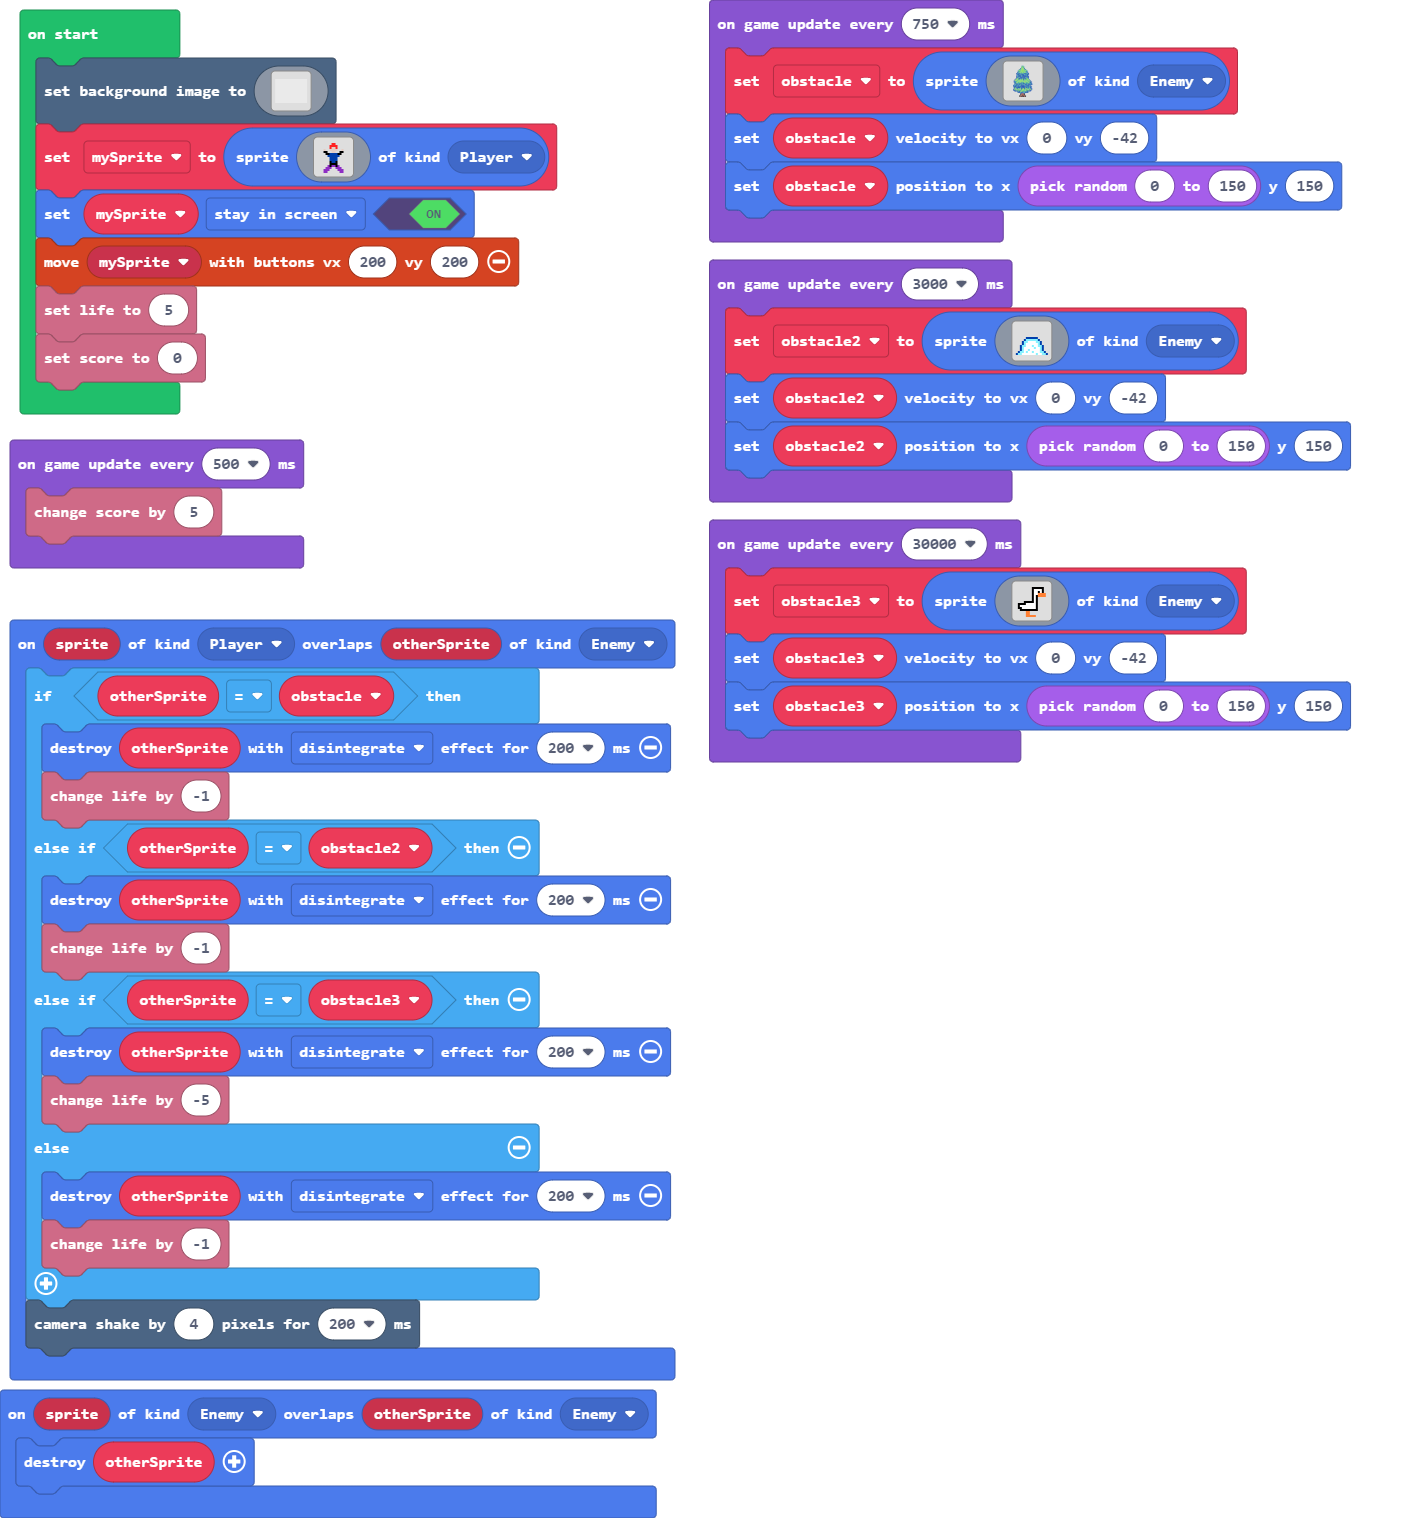
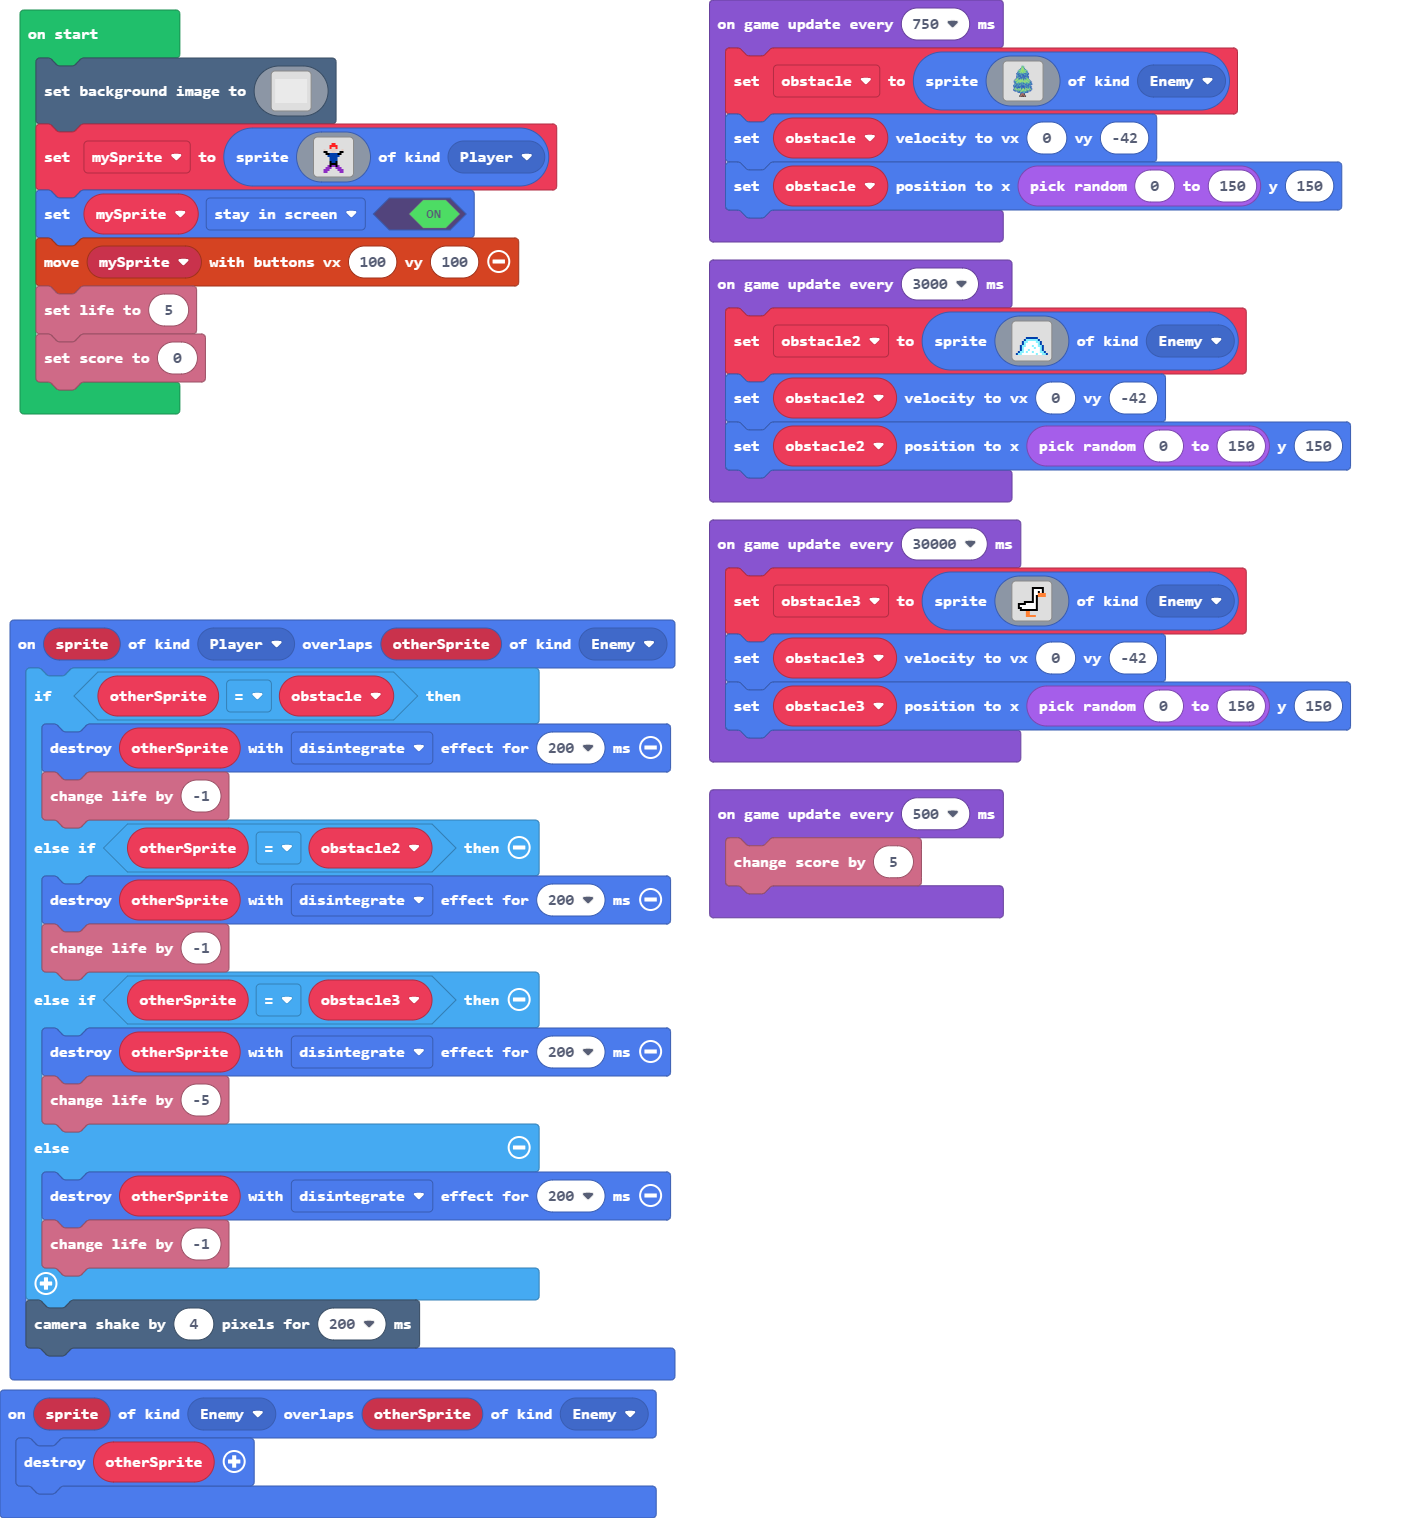
Update main.blocks, main.ts

Changed region(s): [[0.4904, 0.4954, 0.7356, 0.6192], [0.0, 0.2787, 0.2145, 0.4025]]

diff --git a/main.ts b/main.ts
@@ -166,7 +166,7 @@ let mySprite = sprites.create(img`
     . . . a a . . . . . . a a . . . 
     `, SpriteKind.Player)
 mySprite.setFlag(SpriteFlag.StayInScreen, true)
-controller.moveSprite(mySprite, 200, 200)
+controller.moveSprite(mySprite, 100, 100)
 info.setLife(5)
 info.setScore(0)
 game.onUpdateInterval(750, function () {
